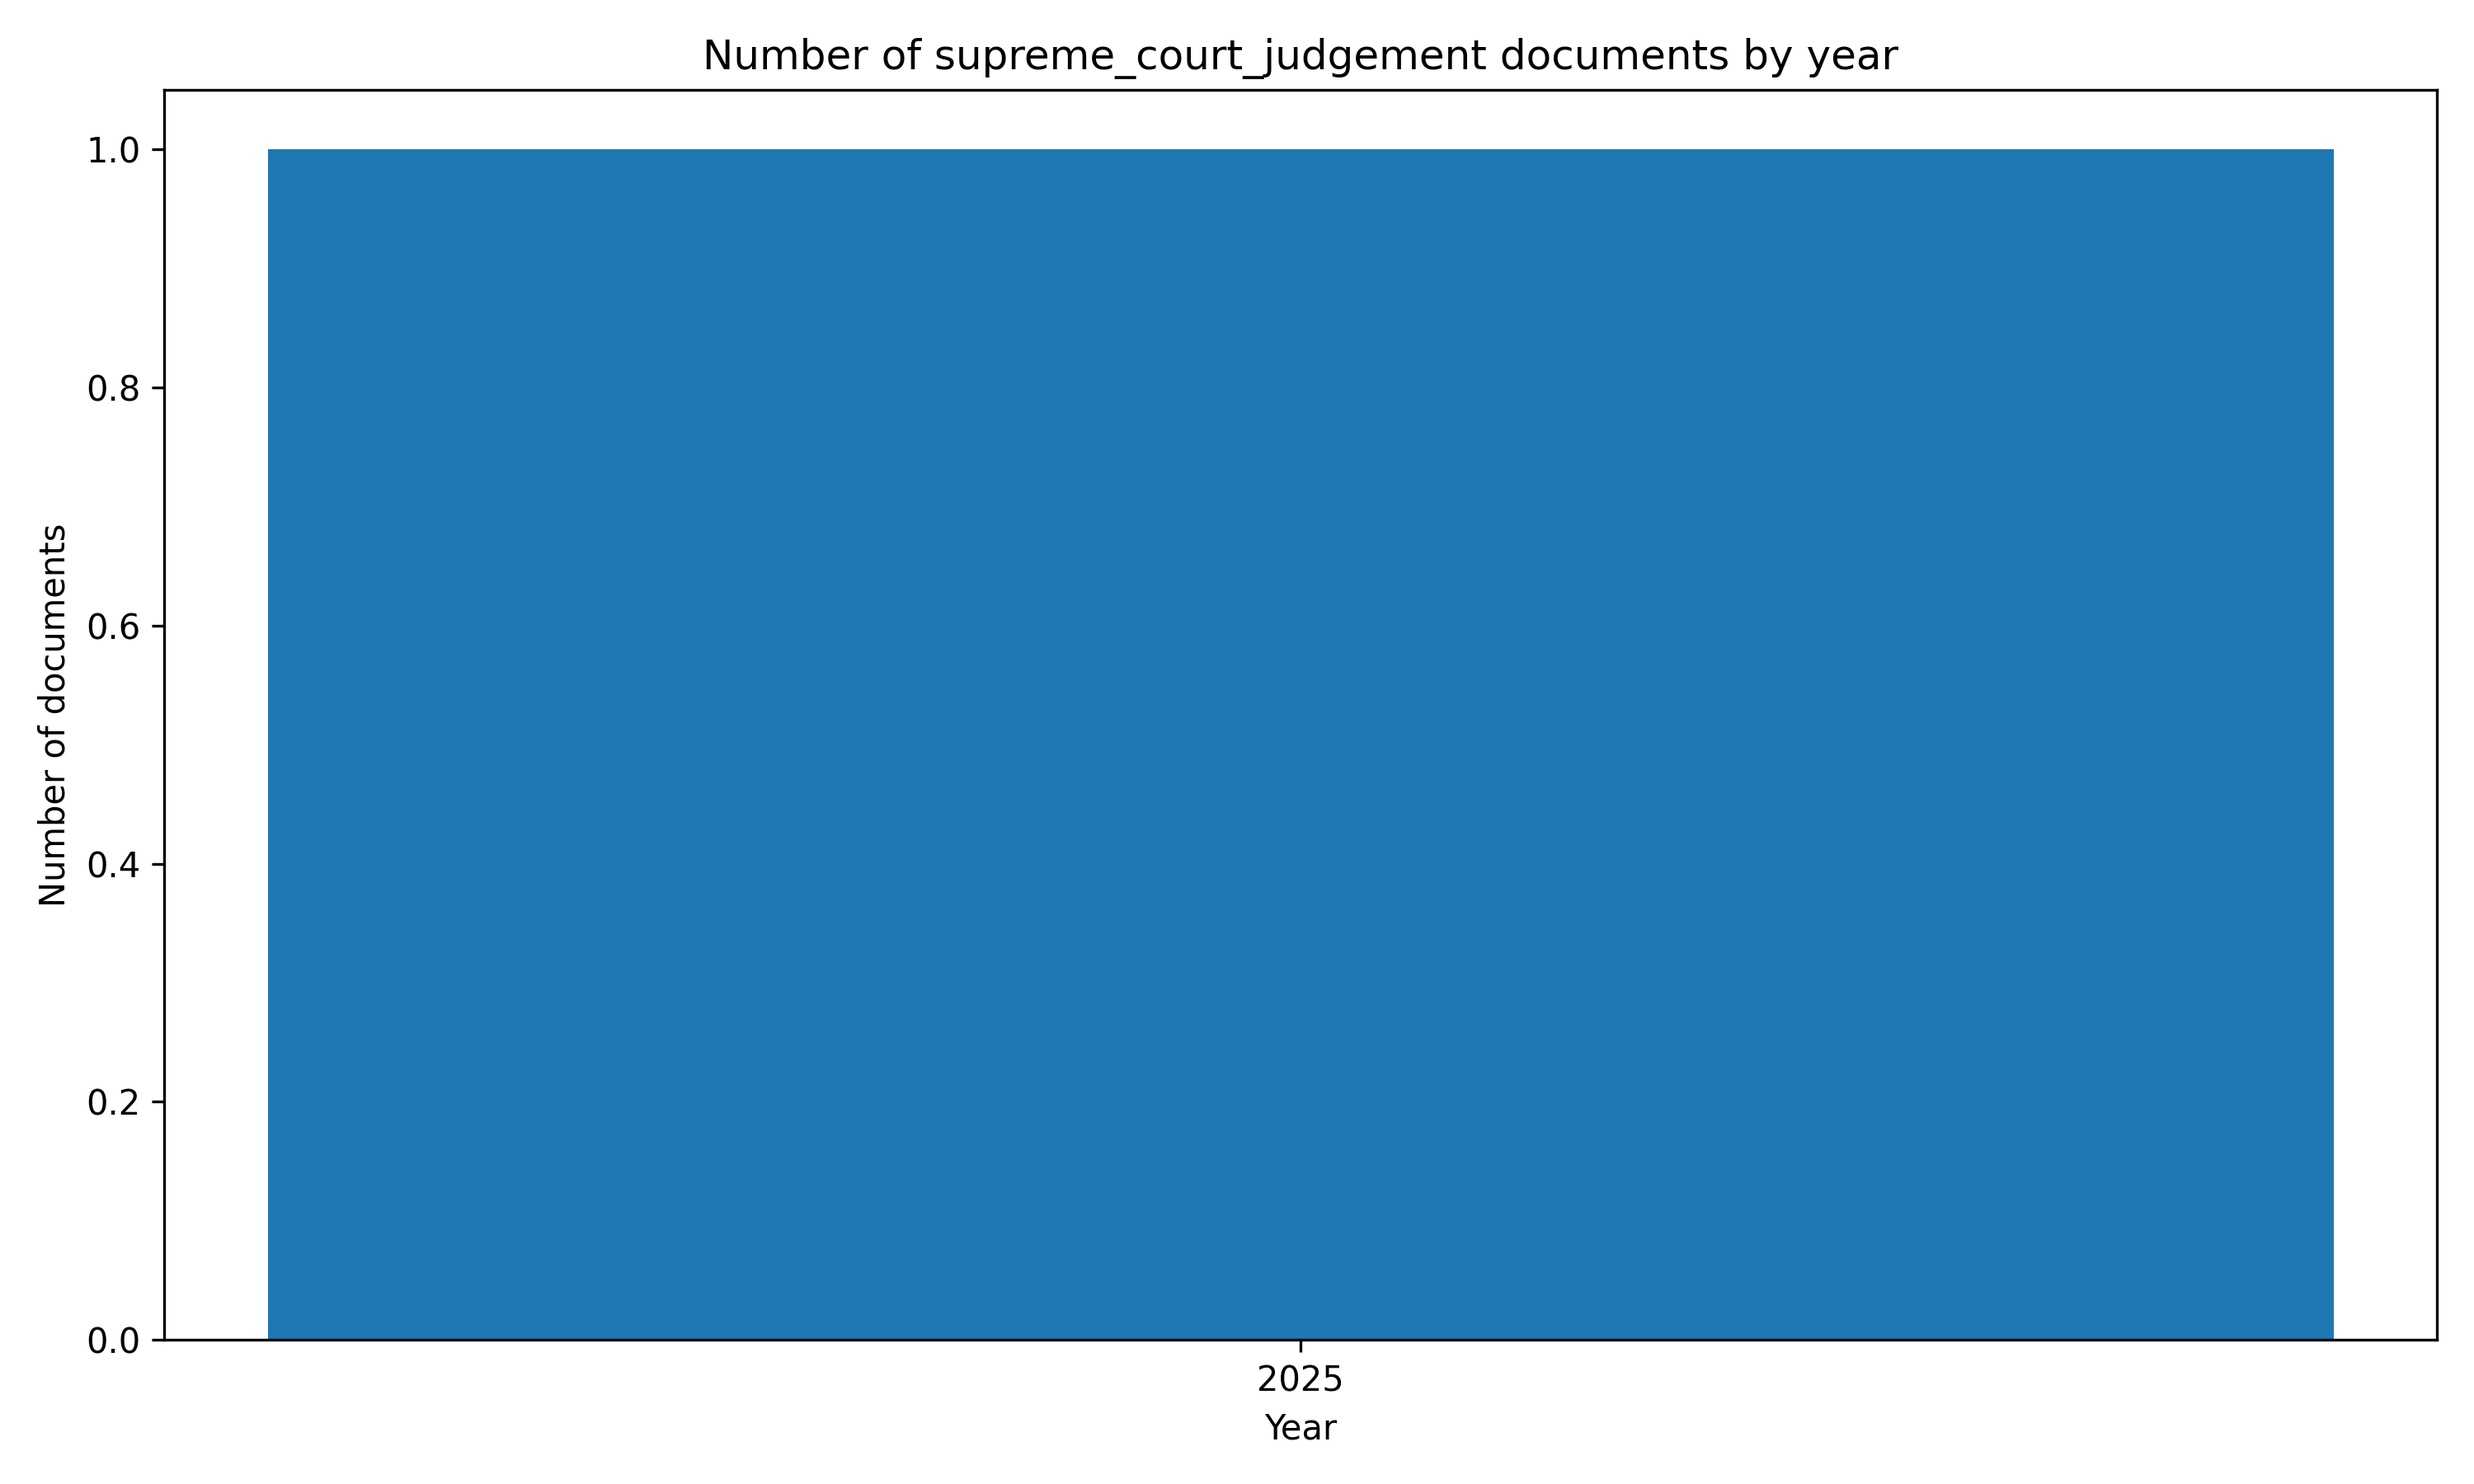
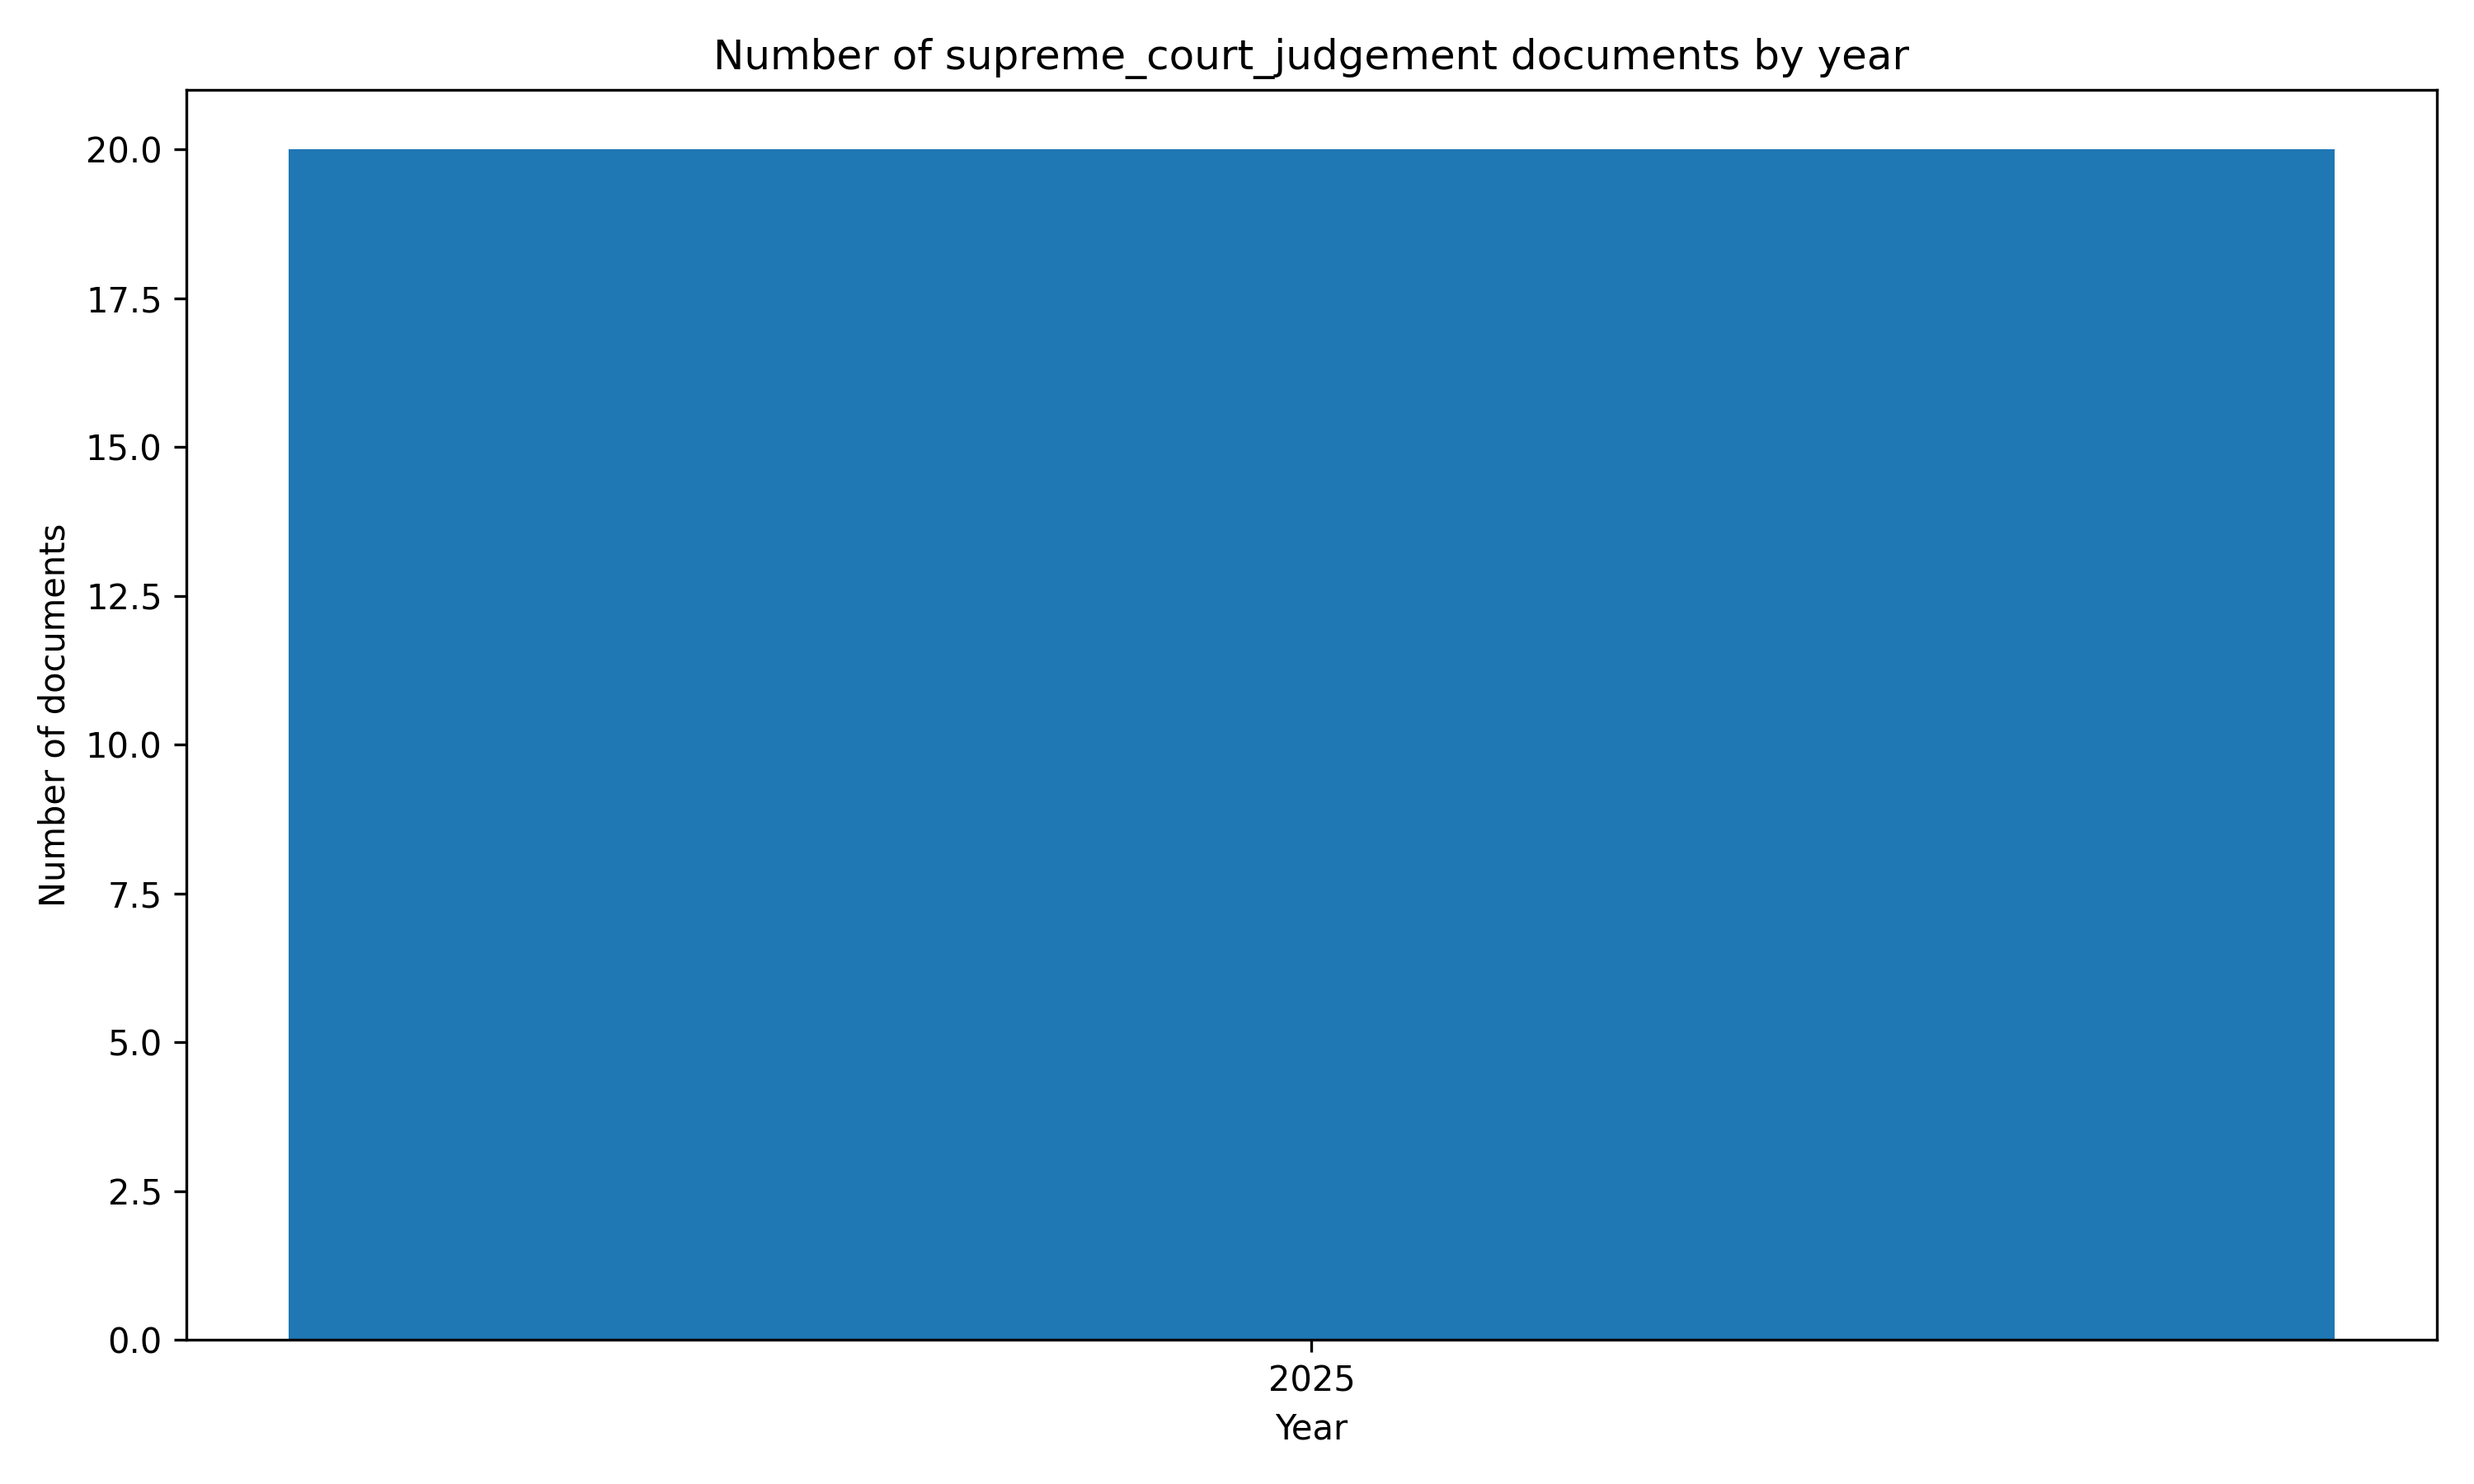
return "lk_supreme_court_judgements"

Changed region(s): [[0.031, 0.0622, 0.124, 0.9333], [0.279, 0.0311, 0.775, 0.0622], [0.496, 0.9022, 0.558, 0.9644]]

diff --git a/src/supreme/JudgementDoc.py b/src/supreme/JudgementDoc.py
@@ -19,7 +19,7 @@ class JudgementDoc(AbstractDoc):
 
     @classmethod
     def get_doc_class_label(cls) -> str:
-        return "supreme_court_judgement"
+        return "lk_supreme_court_judgements"
 
     @classmethod
     def get_doc_class_description(cls) -> str:
@@ -45,9 +45,7 @@ class JudgementDoc(AbstractDoc):
 
         # url_pdf
         td_final = tds[-1]
-        url_pdf = td_final.find_element(By.TAG_NAME, "a").get_attribute(
-            "href"
-        )
+        url_pdf = td_final.find_element(By.TAG_NAME, "a").get_attribute("href")
         assert url_pdf.endswith(".pdf")
 
         return cls(

diff --git a/README.md b/README.md
@@ -7,9 +7,9 @@ Judgements of the [Supreme Court of Sri Lanka](https://supremecourt.lk/judgement
 |   |    |
 | :-- | --: |
 | Data Source | supremecourt.lk |
-| Date Range | 2025-09-16 to 2025-09-16 |
-| Number of Docs | 1 |
-| Number of Docs with PDFs | 1 |
+| Date Range | 2025-09-04 to 2025-09-16 |
+| Number of Docs | 20 |
+| Number of Docs with PDFs | 20 |
 | Dataset Size | 0.0GB |
 
 ## Document Metadata Example
@@ -34,9 +34,28 @@ Judgements of the [Supreme Court of Sri Lanka](https://supremecourt.lk/judgement
 
 ## 🤗 Hugging Face Datasets
 
-- [nuuuwan/lk-docs-supreme_court_judgement-docs](https://huggingface.co/datasets/nuuuwan/lk-docs-supreme_court_judgement-docs)
-- [nuuuwan/lk-docs-supreme_court_judgement-chunks](https://huggingface.co/datasets/nuuuwan/lk-docs-supreme_court_judgement-chunks)
+- [nuuuwan/supreme-court-judgement-docs](https://huggingface.co/datasets/nuuuwan/supreme-court-judgement-docs)
+- [nuuuwan/supreme-court-judgement-chunks](https://huggingface.co/datasets/nuuuwan/supreme-court-judgement-chunks)
 
 ## 20 Latest documents
 
 - 2025-09-16 | `SC/FR/3/2009` |  | [data](None)
+- 2025-09-12 | `SC/APPEAL/59/2024` |  | [data](None)
+- 2025-09-12 | `SC/APPEAL/40/2015` |  | [data](None)
+- 2025-09-11 | `SC/FR/403/2015 AND SC/FR/404/2015` |  | [data](None)
+- 2025-09-11 | `SC/FR/402/2019 AND SC/FR/429/2015` |  | [data](None)
+- 2025-09-11 | `SC/APPEAL/86/2009` |  | [data](None)
+- 2025-09-11 | `SC/APPEAL/34/2021` |  | [data](None)
+- 2025-09-11 | `SC/APPEAL/28/2023` |  | [data](None)
+- 2025-09-11 | `SC/APPEAL/153/2018` |  | [data](None)
+- 2025-09-10 | `SC/FR/282/2015` |  | [data](None)
+- 2025-09-09 | `SC/FR/371/2015` |  | [data](None)
+- 2025-09-08 | `SC/APPEAL/162/2013` |  | [data](None)
+- 2025-09-08 | `SC/APPEAL/115/2013` |  | [data](None)
+- 2025-09-04 | `SC/FR/276/2018` |  | [data](None)
+- 2025-09-04 | `SC/CHC APPEAL/52/2019` |  | [data](None)
+- 2025-09-04 | `SC/APPEAL/85/2023` |  | [data](None)
+- 2025-09-04 | `SC/APPEAL/54/2022` |  | [data](None)
+- 2025-09-04 | `SC/APPEAL/38/2022` |  | [data](None)
+- 2025-09-04 | `SC/APPEAL/175/2011` |  | [data](None)
+- 2025-09-04 | `SC/APPEAL/126/2015` |  | [data](None)
